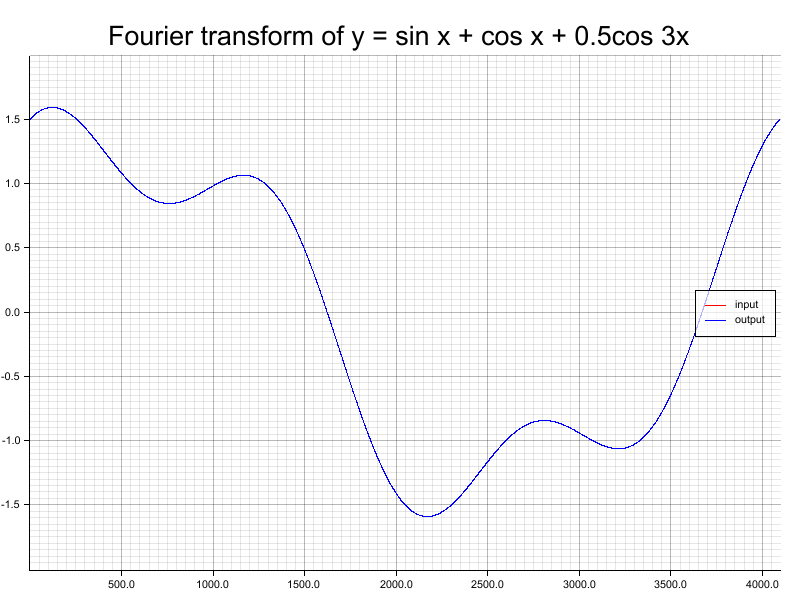
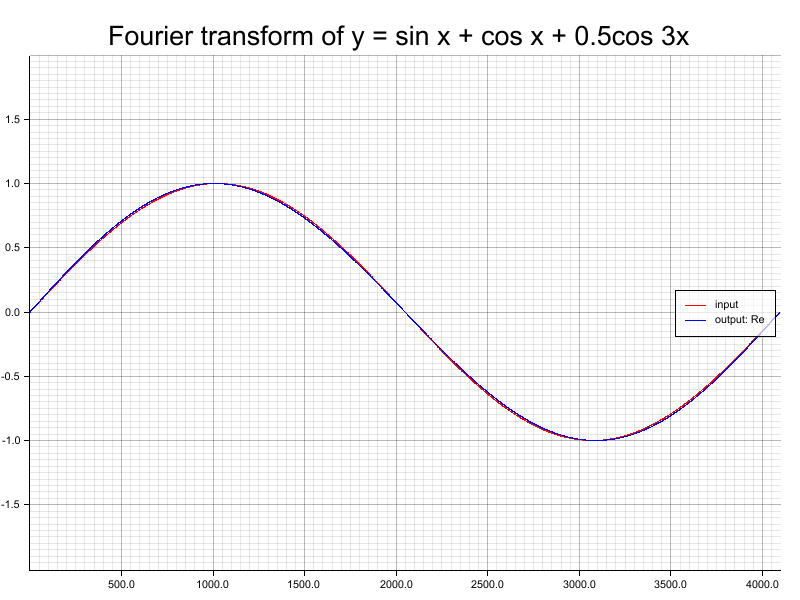
not enough J >= 3N + 1

diff --git a/src/main.rs b/src/main.rs
@@ -1,9 +1,12 @@
 extern crate plotters;
 use plotters::prelude::*;
 mod complex;
+use complex::*;
 mod fft;
 use fft::*;
 mod runge_kutta;
+use runge_kutta::*;
+use std::ops::Fn;
 
 fn main() -> Result<(), Box<dyn std::error::Error>> {
     let root = BitMapBackend::new("png/fft.png", (800, 600)).into_drawing_area();
@@ -29,14 +32,46 @@ fn main() -> Result<(), Box<dyn std::error::Error>> {
 
     let input = (0..4096)
         .map(|i| 2. * std::f64::consts::PI * (i as f64) / 4096.)
-        .map(|x| x.sin() + x.cos() + 0.5 * (3. * x).cos())
+        .map(|x| x.sin())
         .collect::<Vec<_>>();
-
     let output = real_ifft(&real_fft(&input));
+
+    let func: Box<dyn Fn(ComplexVec, f64) -> ComplexVec> = Box::new(|u_hat, _t| {
+        let u = real_ifft(&(u_hat.vec));
+        let u_x = real_ifft(
+            &u_hat
+                .vec
+                .iter()
+                .enumerate()
+                .map(|(k, &z)| z * Complex::new(0.0, k as f64))
+                .collect::<Vec<_>>(),
+        );
+        let f = u
+            .iter()
+            .zip(u_x.iter())
+            .map(|(&x, &y)| x * y)
+            .collect::<Vec<_>>();
+        ComplexVec { vec: real_fft(&f) }
+    });
+
+    let mut rk = RungeKutta {
+        x: ComplexVec {
+            vec: real_fft(&input),
+        },
+        func: func,
+        t: 0.0f64,
+        dt: 0.01f64,
+    };
+
+    rk.step();
+    rk.step();
+    rk.step();
+    let o = rk.x.vec;
+    // println!("{:?}", rk.x.vec);
 
     chart
         .draw_series(LineSeries::new(
-            input.iter().enumerate().map(|(i, &x)| (i as f64, x)),
+            output.iter().enumerate().map(|(i, &x)| (i as f64, x)),
             &RED,
         ))?
         .label("input")
@@ -44,10 +79,13 @@ fn main() -> Result<(), Box<dyn std::error::Error>> {
 
     chart
         .draw_series(LineSeries::new(
-            output.iter().enumerate().map(|(i, &x)| (i as f64, x)),
+            real_ifft(&o)
+                .iter()
+                .enumerate()
+                .map(|(i, &x)| (i as f64, x)),
             &BLUE,
         ))?
-        .label("output")
+        .label("output: Re")
         .legend(|(x, y)| PathElement::new(vec![(x, y), (x + 20, y)], &BLUE));
 
     chart

diff --git a/src/runge_kutta.rs b/src/runge_kutta.rs
@@ -2,7 +2,7 @@ use super::complex::Complex;
 use std::ops::*;
 
 #[derive(Debug, Clone)]
-struct ComplexVec {
+pub struct ComplexVec {
     pub vec: Vec<Complex>,
 }
 
@@ -38,14 +38,14 @@ impl Mul<ComplexVec> for f64 {
     }
 }
 
-struct RungeKutta<F>
+pub struct RungeKutta<F>
 where
     F: Fn(ComplexVec, f64) -> ComplexVec,
 {
-    x: ComplexVec,
-    func: F,
-    t: f64,
-    dt: f64,
+    pub x: ComplexVec,
+    pub func: F,
+    pub t: f64,
+    pub dt: f64,
 }
 
 impl<F> RungeKutta<F>
